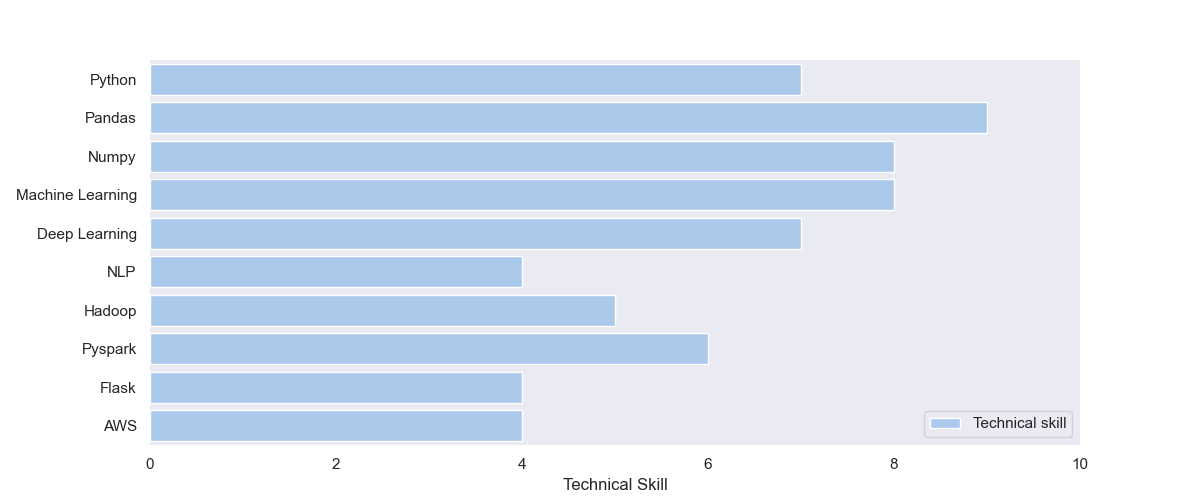
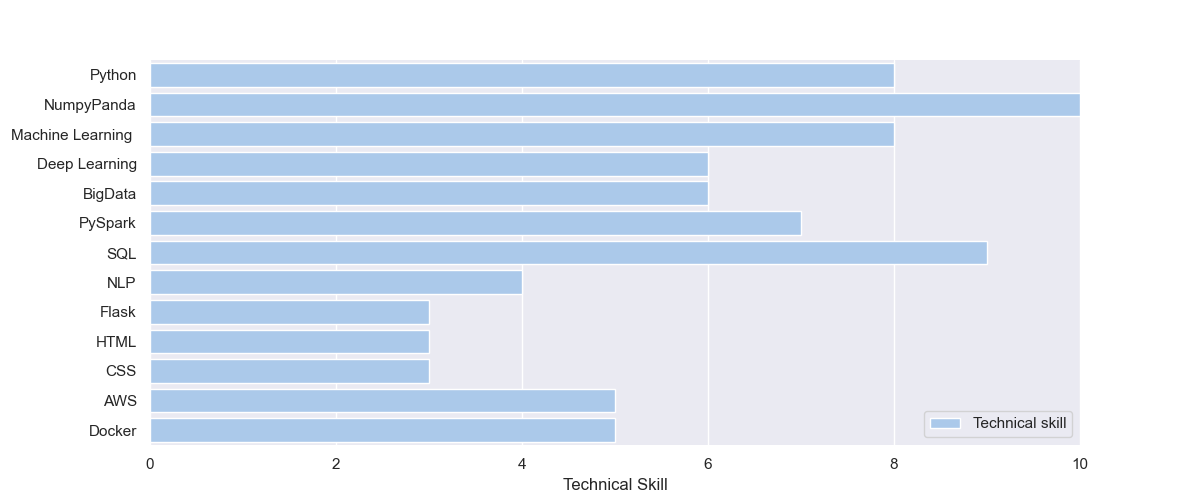
using csv inplace of dict

diff --git a/barplot.py b/barplot.py
@@ -3,12 +3,12 @@ import pandas as pd
 import seaborn as sns
 import matplotlib.pyplot as plt
 
-dict ={'skill':['Python','Pandas','Numpy','Machine Learning','Deep Learning','NLP','Hadoop','Pyspark','Flask','AWS'],
-       'expertise':[7,9,8,8,7,4,5,6,4,4]}
+# dict ={'skill':['Python','Pandas','Numpy','Machine Learning','Deep Learning','NLP','Hadoop','Pyspark','Flask','AWS'],
+       # 'expertise':[7,9,8,8,7,4,5,6,4,4]}
 
-df=pd.DataFrame(dict)
+df=pd.read_csv("skill.csv")
 
-sns.set_theme(style="dark")
+sns.set_theme(style="darkgrid")
 
 # Initialize the matplotlib figure
 f, ax = plt.subplots(figsize=(12, 5))
@@ -16,7 +16,7 @@ f, ax = plt.subplots(figsize=(12, 5))
 
 # Plot the total crashes
 sns.set_color_codes("pastel")
-sns.barplot(y="skill", x="expertise", data=df,
+sns.barplot(y="Skill", x="Score", data=df,
             label="Technical skill", color="b")
 
 ax.legend(ncol=2, loc="lower right", frameon=True)
